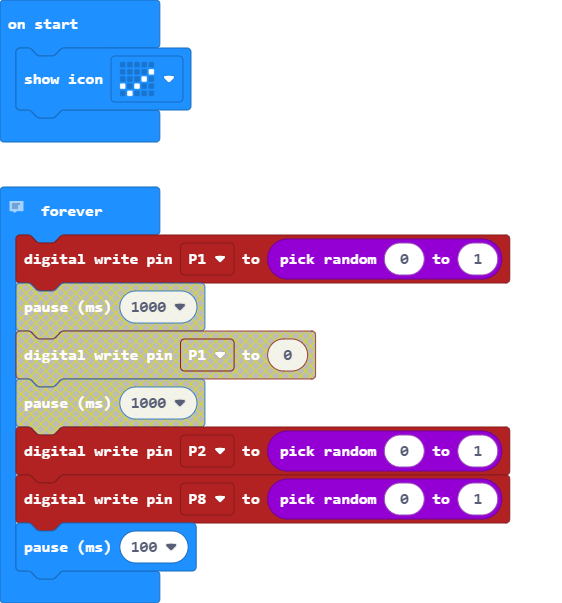
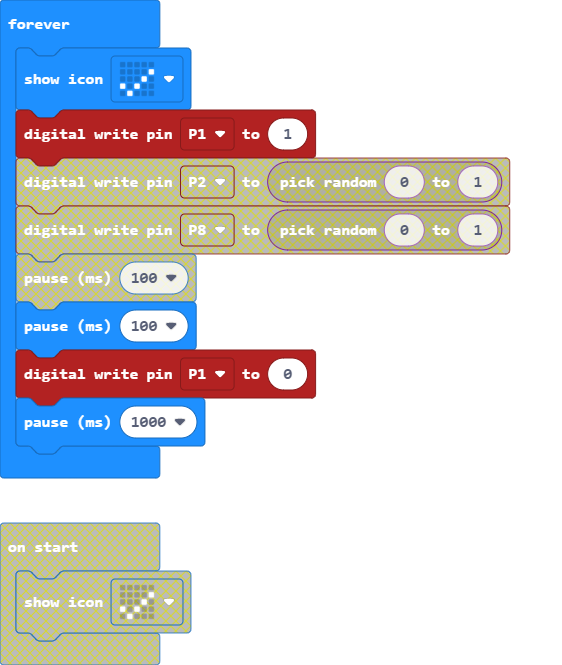
Update main.blocks, main.ts

diff --git a/main.ts b/main.ts
@@ -1,14 +1,7 @@
-basic.showIcon(IconNames.Yes)
-// Created by: Evan
-// Created on: Oct. 2020
-// 
-// This program blinks an LED
-// 
-// 
-// 
 basic.forever(function () {
-    pins.digitalWritePin(DigitalPin.P1, randint(0, 1))
-    pins.digitalWritePin(DigitalPin.P2, randint(0, 1))
-    pins.digitalWritePin(DigitalPin.P8, randint(0, 1))
+    basic.showIcon(IconNames.Yes)
+    pins.digitalWritePin(DigitalPin.P1, 1)
     basic.pause(100)
+    pins.digitalWritePin(DigitalPin.P1, 0)
+    basic.pause(1000)
 })
